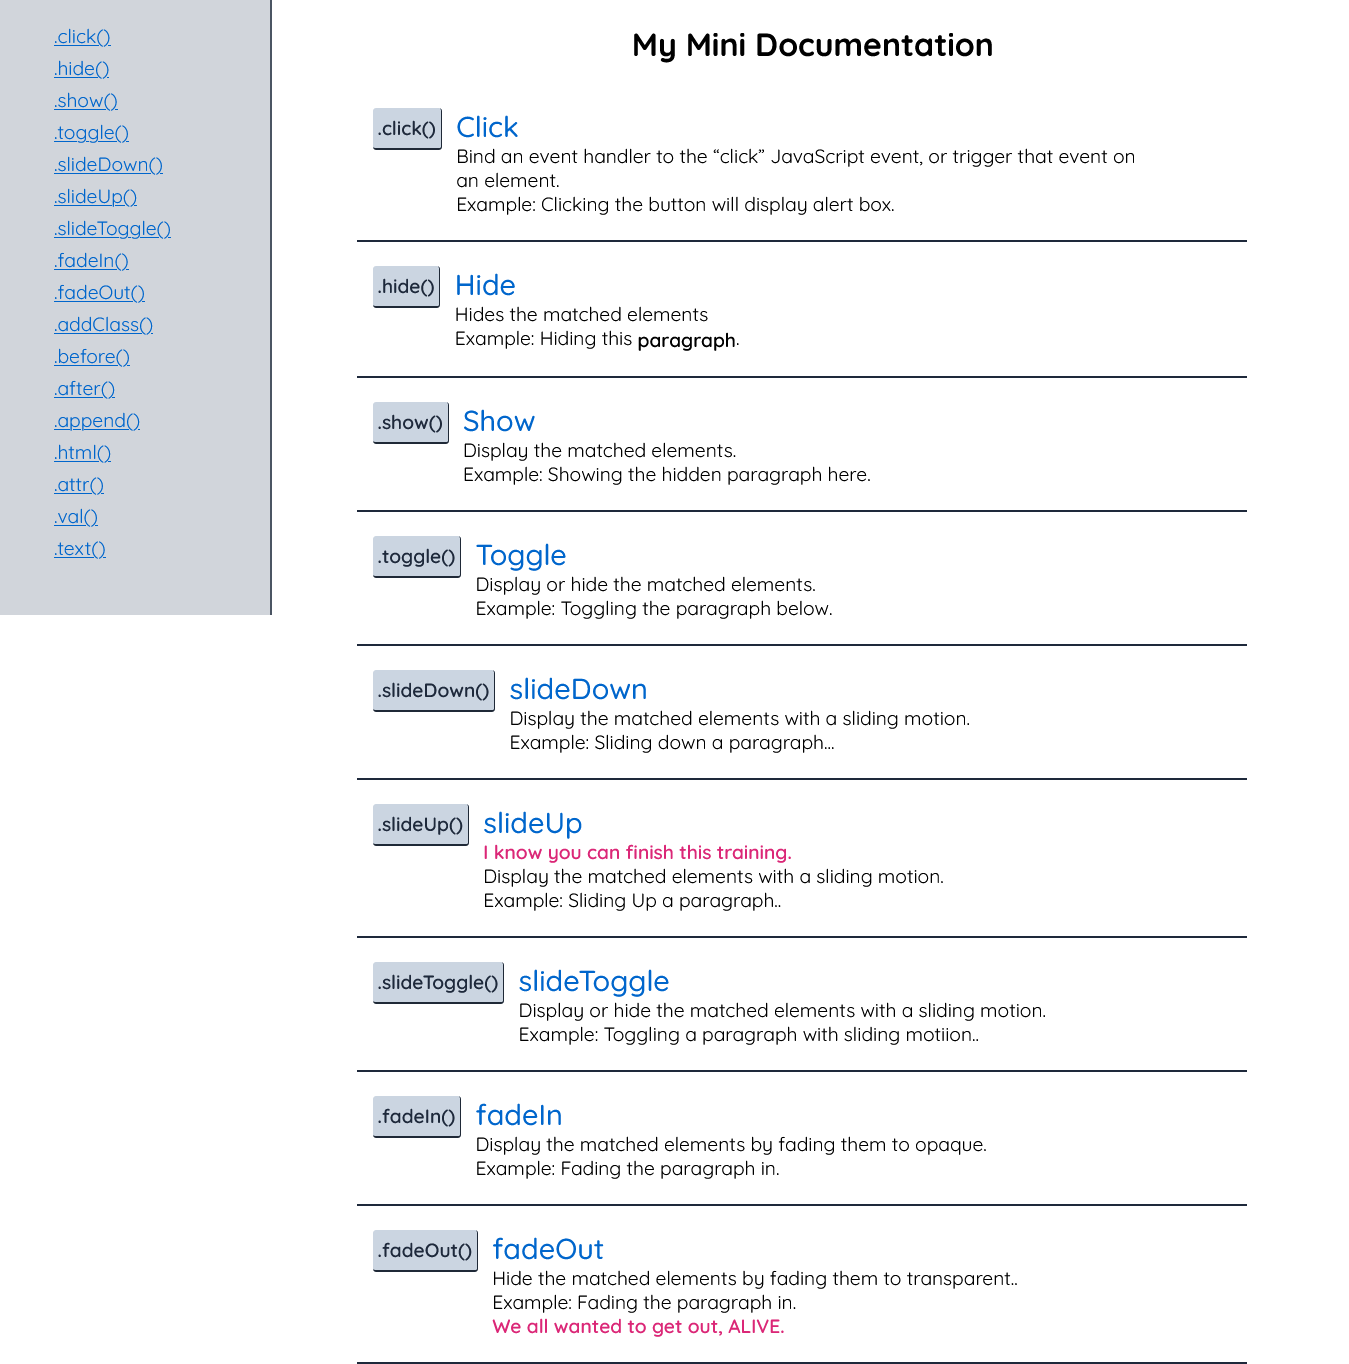
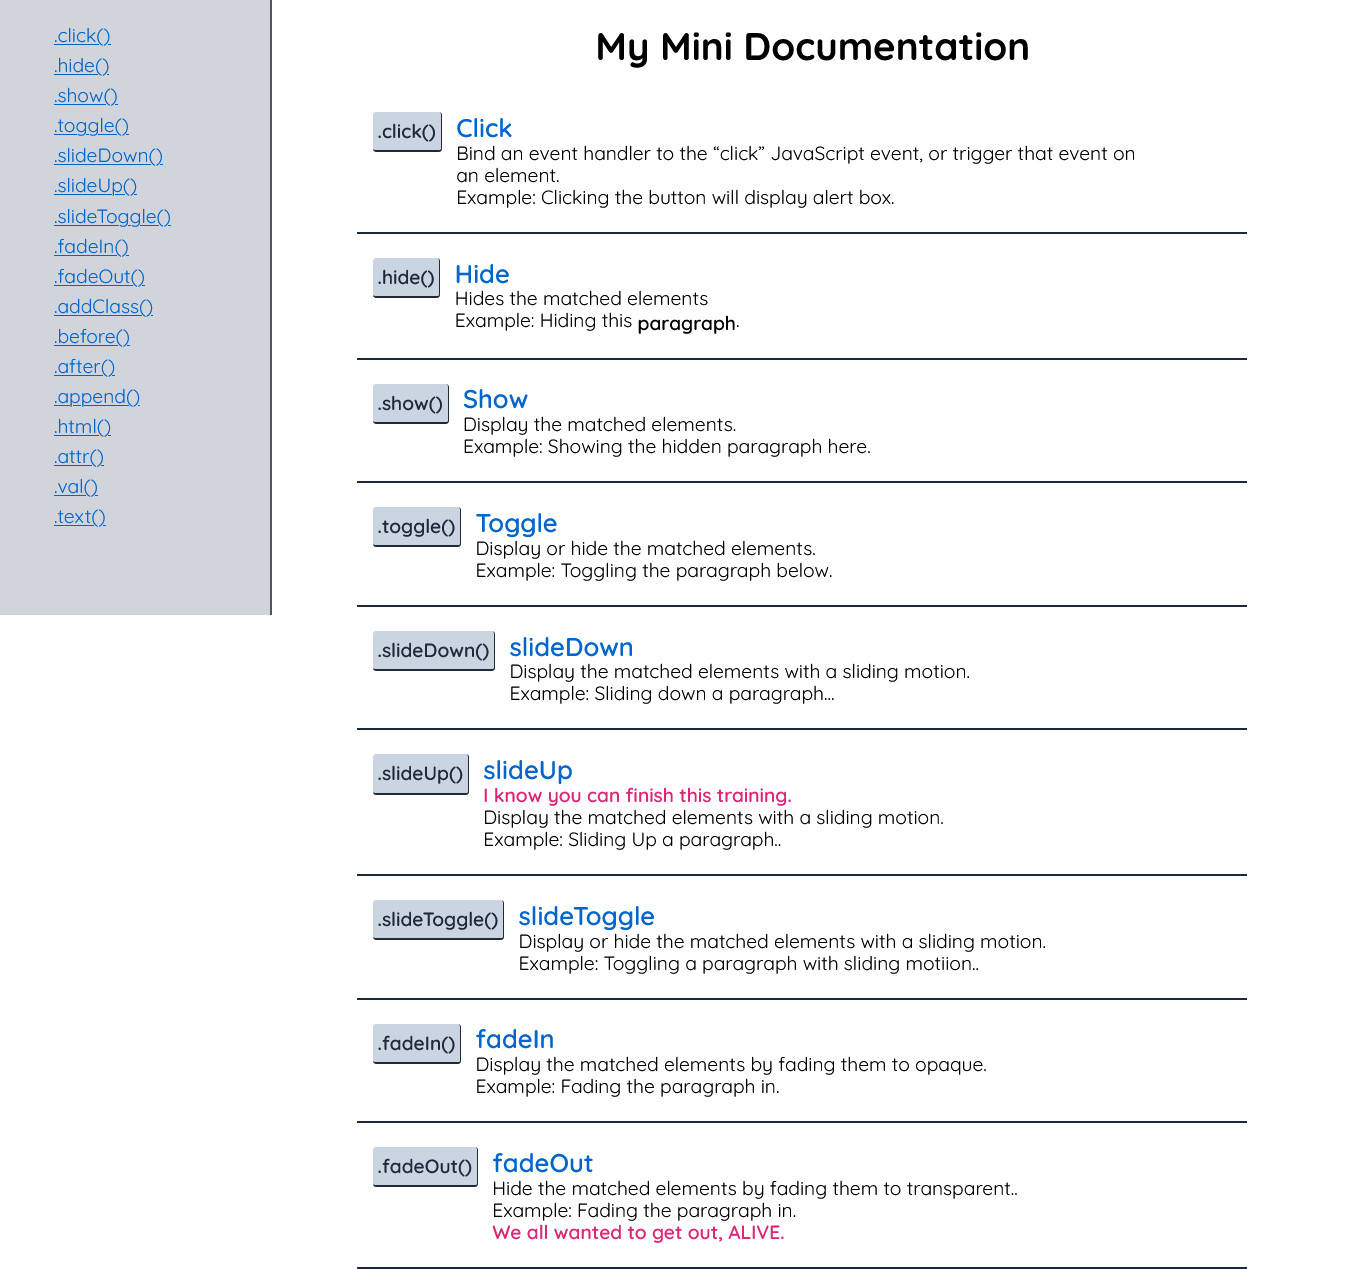
Removed the style.css file

diff --git a/index.html b/index.html
@@ -4,13 +4,12 @@
     <meta charset="UTF-8">
     <meta http-equiv="X-UA-Compatible" content="IE=edge">
     <meta name="viewport" content="width=device-width, initial-scale=1.0">
-    <!-- <link rel="stylesheet" href="normalize.css"> -->
-    <!-- <link rel="stylesheet" href="style.css"> -->
+    <link rel="stylesheet" href="normalize.css">
     <link rel="stylesheet/less" href="style.less" />
     <script src="https://cdnjs.cloudflare.com/ajax/libs/less.js/4.1.3/less.js" integrity="sha512-00f27XAKKYcFp+SZ34aFmjTRbG+5Ev8/Owe3iegsrAo+4qXDFqYkXSkgs/fL0u868DTeigXT6xY8ru2Gzbs2oA==" crossorigin="anonymous" referrerpolicy="no-referrer"></script>
     <script src="https://ajax.googleapis.com/ajax/libs/jquery/3.6.0/jquery.min.js"></script>
     <script src="app.js"></script>
-    <title>sample JS</title>
+    <title>jQuery Mini Documentation</title>
     
 </head>
 <body>

diff --git a/style.less b/style.less
@@ -9,6 +9,7 @@
 h1 {
     margin: 24px 0 20px 0; 
     text-align: center;
+    font-size: 2.4rem;
 }
 
 p {
